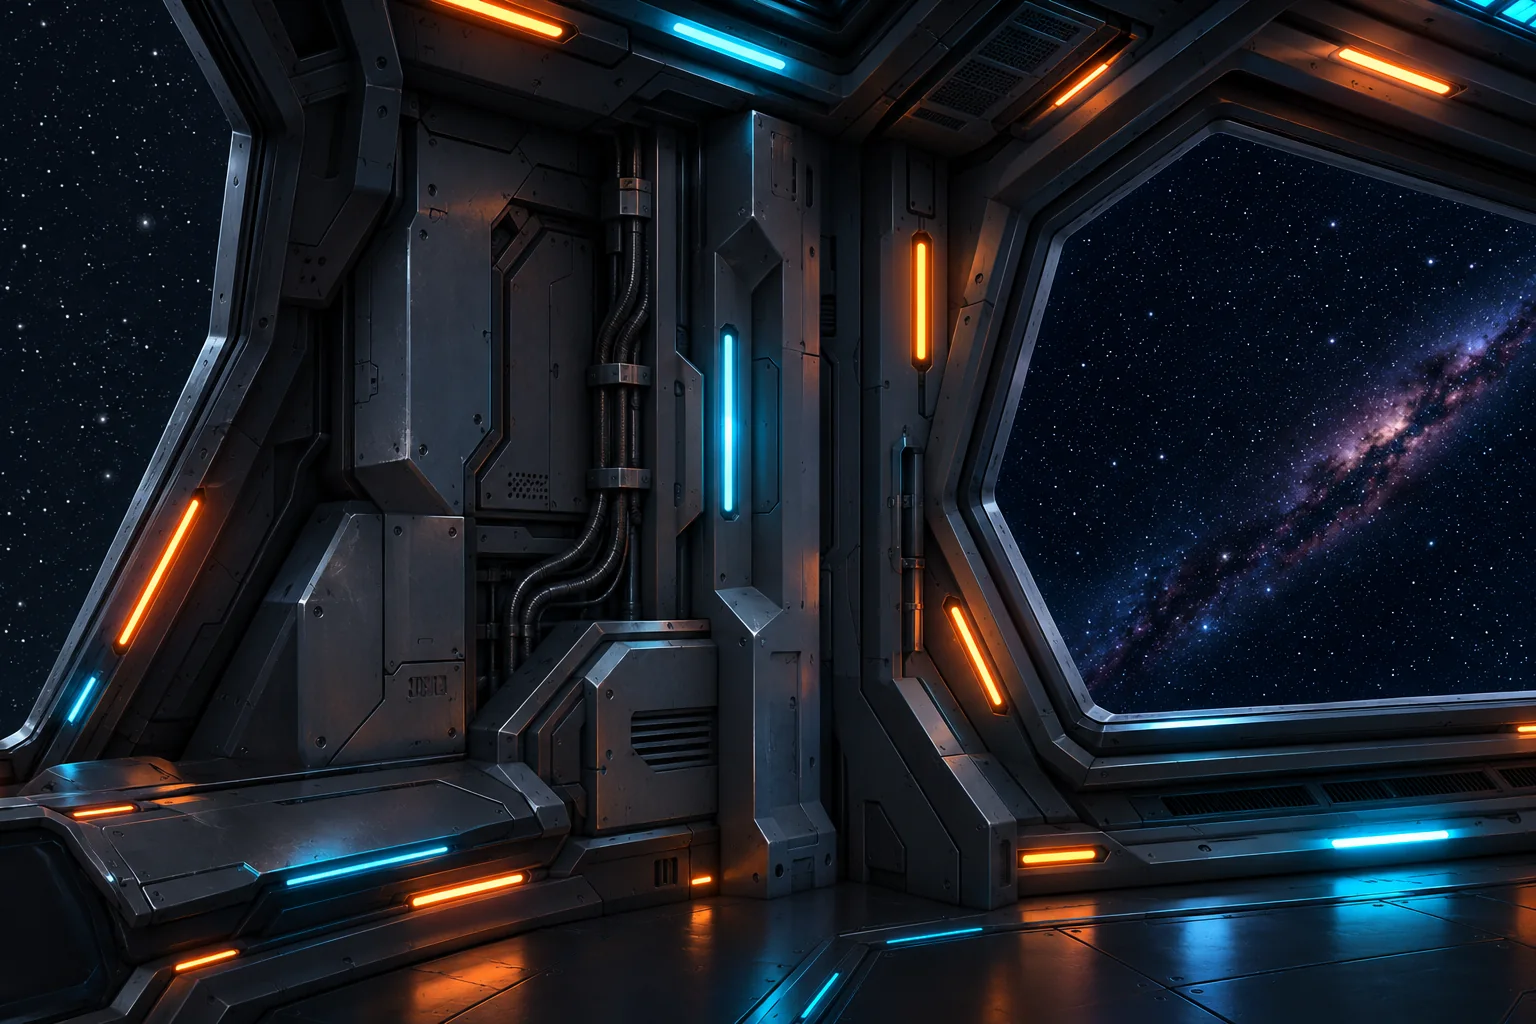
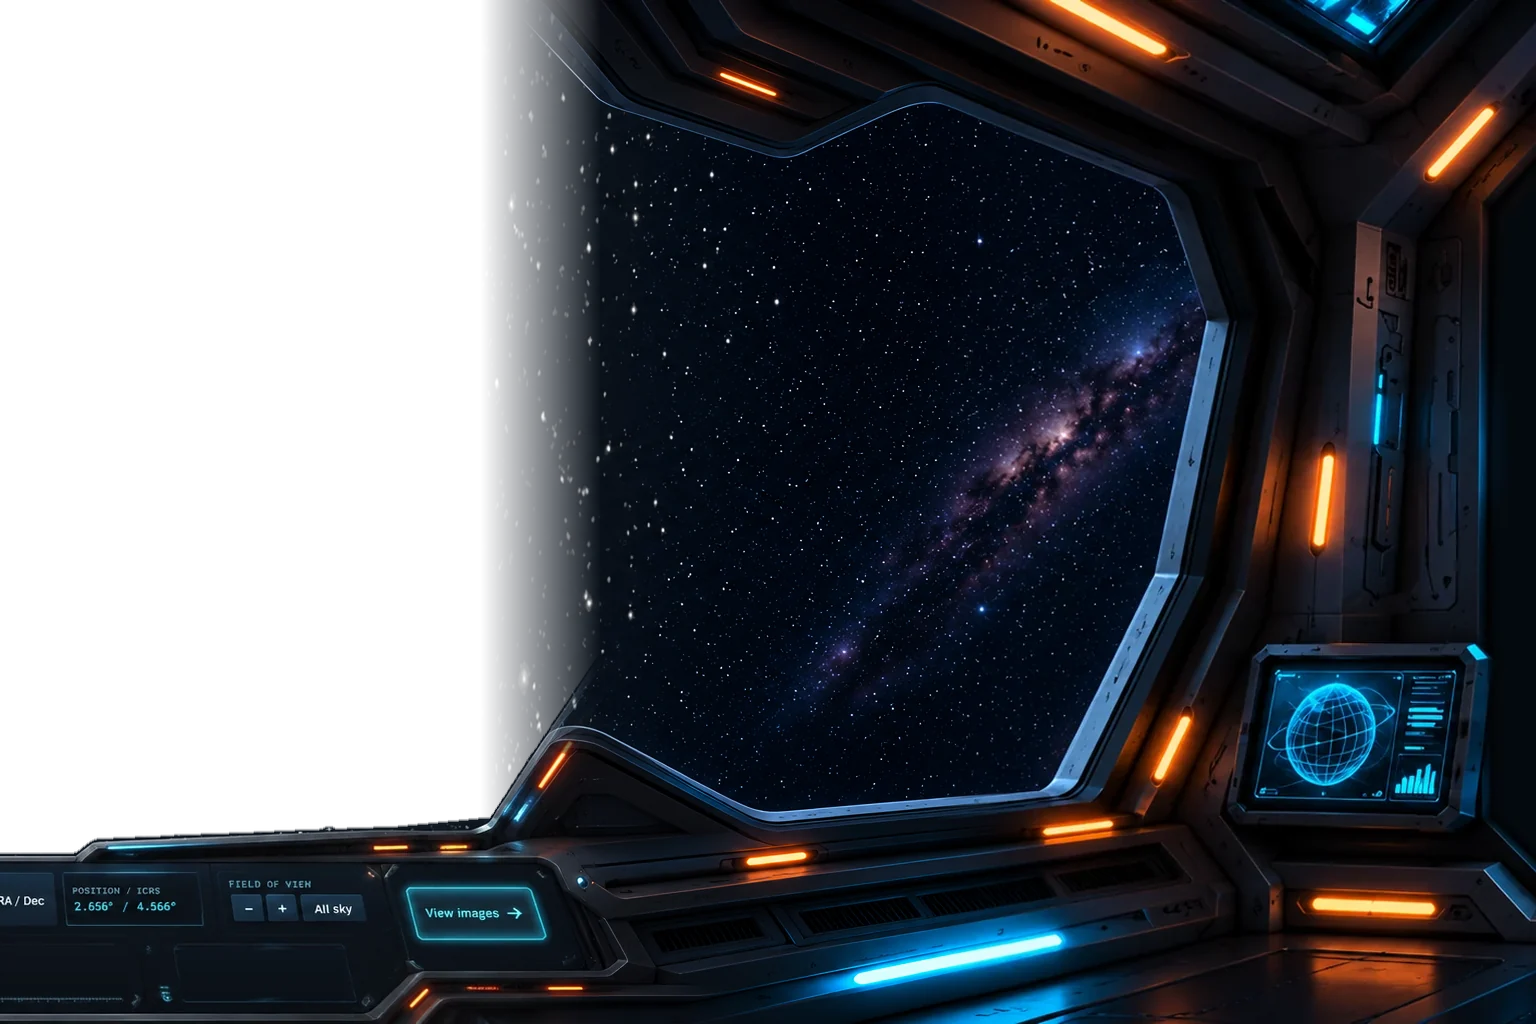
feat(frontend): tweak Nebo layout styles and optimize turn-corner panel

diff --git a/frontend/components/Nebo.tsx b/frontend/components/Nebo.tsx
@@ -382,18 +382,21 @@ export default function Nebo() {
      * which clipped the walls and needed dark masks at their edges.
      */
     const vw = window.innerWidth;
-    // The corner's last 9 % fades out over the screen's left edge (and its first 9 %, offset by
-    // a negative margin, over the cockpit's right edge), so the strip advances 82 % of its width.
-    const span = corner.offsetWidth * 0.82;
+    // turn-corner.webp is 1536 × 1024: its left 600 px repeat the cockpit's right edge, its right
+    // 600 px the room's left edge (both at their on-screen scale for 16:9), and the 336 px
+    // between were painted to join them. It overlays both live views where they match.
+    const scale = corner.offsetHeight / 1024;
+    const overlap = 600 * scale;
+    const gap = 336 * scale;
     const right = turn === "right";
-    // Pan positions (px): the cockpit at 0, the corner just right of it, the screen after both.
-    const start = right ? 0 : -(vw + span);
-    const end = right ? -(vw + span) : 0;
+    // Strip offsets from the cockpit's x: corner at vw − overlap, screen at vw + gap.
+    const start = right ? 0 : -(vw + gap);
+    const end = right ? -(vw + gap) : 0;
     const timeline = gsap.timeline({ onComplete: finish, defaults: { duration: 1.25, ease: "power2.inOut" } });
     timeline
       .fromTo(explorer, { x: start }, { x: end }, 0)
-      .fromTo(corner, { x: start + vw }, { x: end + vw }, 0)
-      .fromTo(field, { x: start + vw + span }, { x: end + vw + span }, 0);
+      .fromTo(corner, { x: start + vw - overlap }, { x: end + vw - overlap }, 0)
+      .fromTo(field, { x: start + vw + gap }, { x: end + vw + gap }, 0);
     return () => {
       timeline.kill();
     };

diff --git a/frontend/app/globals.css b/frontend/app/globals.css
@@ -553,12 +553,16 @@ footer .mono {
   top: 0;
   left: 0;
   z-index: 7;
-  width: min(150dvh, 85vw);
+  width: calc(100dvh * 1.5);
   height: 100dvh;
-  background: #020509 url("/panels/turn-corner.webp") center / cover no-repeat;
-  -webkit-mask-image: linear-gradient(90deg, transparent, #000 9%, #000 91%, transparent);
-  mask-image: linear-gradient(90deg, transparent, #000 9%, #000 91%, transparent);
-  margin-left: calc(min(150dvh, 85vw) * -0.09);
+  background: url("/panels/turn-corner.webp") 0 0 / 100% 100% no-repeat;
+  /*
+   * The outer 39 % on each side repeat the live views at their on-screen scale. The cockpit's
+   * sky is transparent in the image itself (the live sky shows through; no doubled stars), so
+   * the left mask only has to stay clear of the console labels the live cockpit draws (< 25 %).
+   */
+  -webkit-mask-image: linear-gradient(90deg, transparent 25%, #000 28%, #000 63%, transparent 96%);
+  mask-image: linear-gradient(90deg, transparent 25%, #000 28%, #000 63%, transparent 96%);
   pointer-events: none;
 }
 /*
